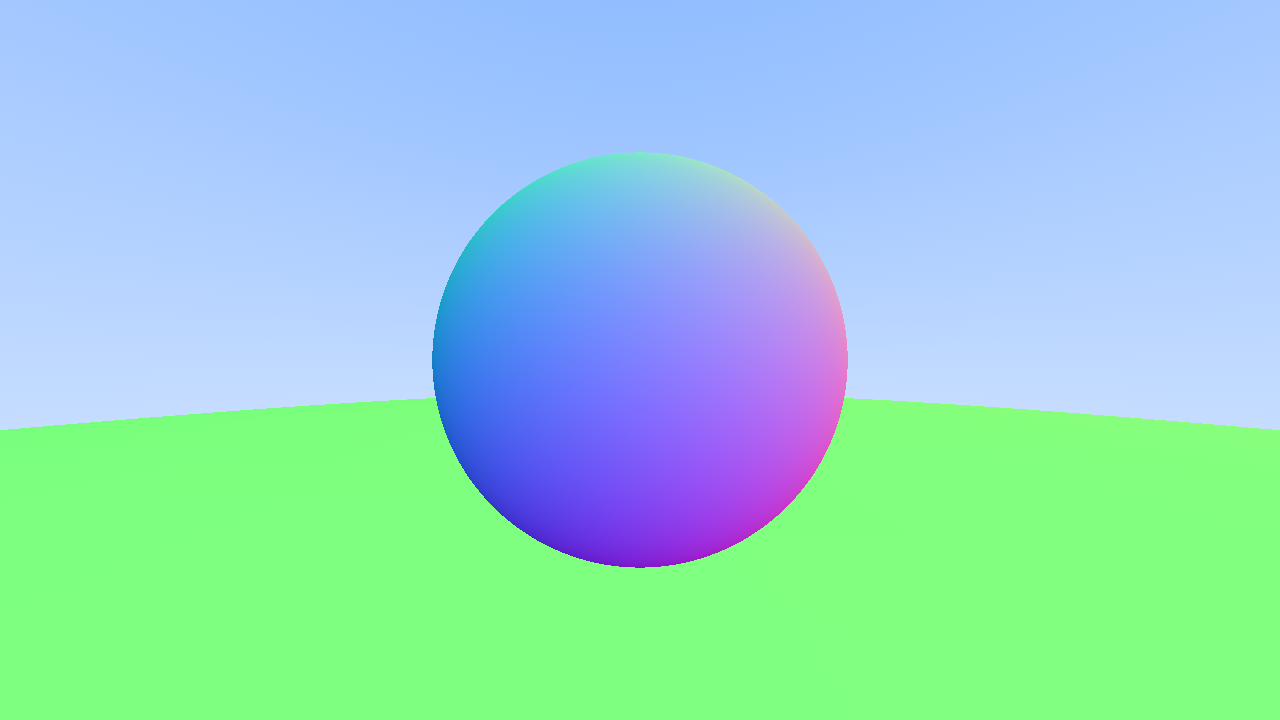
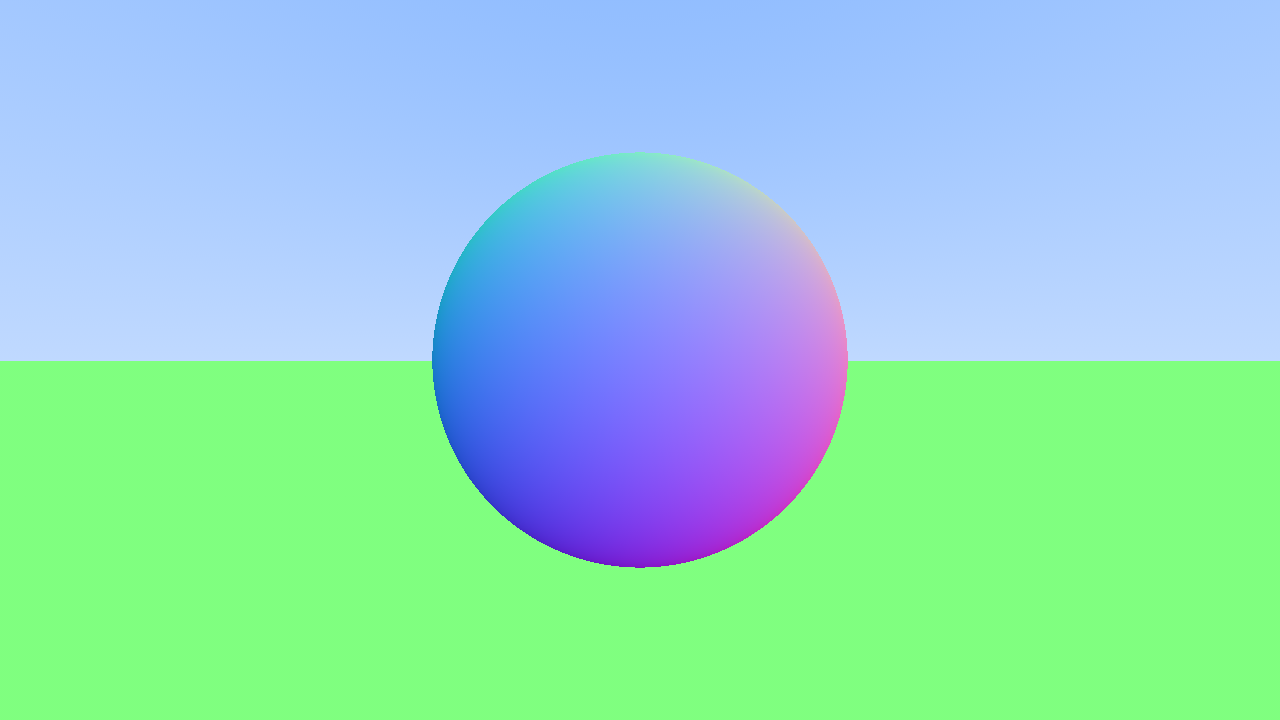
Add run time output to .txt

Changed region(s): [[0.6562, 0.4889, 1.0, 0.6111], [0.0, 0.4889, 0.3438, 0.6111]]

diff --git a/main.cpp b/main.cpp
@@ -1,9 +1,25 @@
 #include "Raytracing.h"
+#include <chrono>
+#include <fstream>
 
 Raytracing raytracing;
 
 int main() {
+	std::fstream runTime;
+	runTime.open("images/runTime.txt", std::ios_base::out);
+
+	auto begin = std::chrono::high_resolution_clock::now();
+
 	if (!raytracing.Run()) return -1;
+
+	auto end = std::chrono::high_resolution_clock::now();
+	std::chrono::duration<double> elapsed = end - begin;
+	//float elapsedF = std::static_
+
+	if (runTime.is_open()) {
+		runTime << "Elapsed Time: \n";
+		runTime << "    " << elapsed;
+	}
 
 	return 0;
 }

diff --git a/Raytracing.cpp b/Raytracing.cpp
@@ -11,7 +11,7 @@ bool Raytracing::Run() {
 	// Create Objects
 	//Sphere sphere1(Vector3D(0, 0, -1), 0.5);
 	m_objects.push_back(new Sphere(Vector3D(0.0f, 0.0f, -1.0f), 0.5f));
-	m_objects.push_back(new Sphere(Vector3D(0.0f, -100.5f, -1.0f), 100.0f));
+	m_objects.push_back(new Sphere(Vector3D(0.0f, -600000.5f, -1.0f), 600000.0f));
 
 	// Image
 	const float aspect_ratio = 16.0f / 9.0f;

diff --git a/Object.h b/Object.h
@@ -19,6 +19,8 @@ struct HitRec {
 	inline void SetFaceNormal(Ray& ray, Vector3D& outwardNormal) {
 		frontFace = ray.GetDirection().DotProduct(outwardNormal) < 0;
 		normal = frontFace ? outwardNormal : outwardNormal * -1;
+
+		normal.UnitVector();
 	}
 };
 
